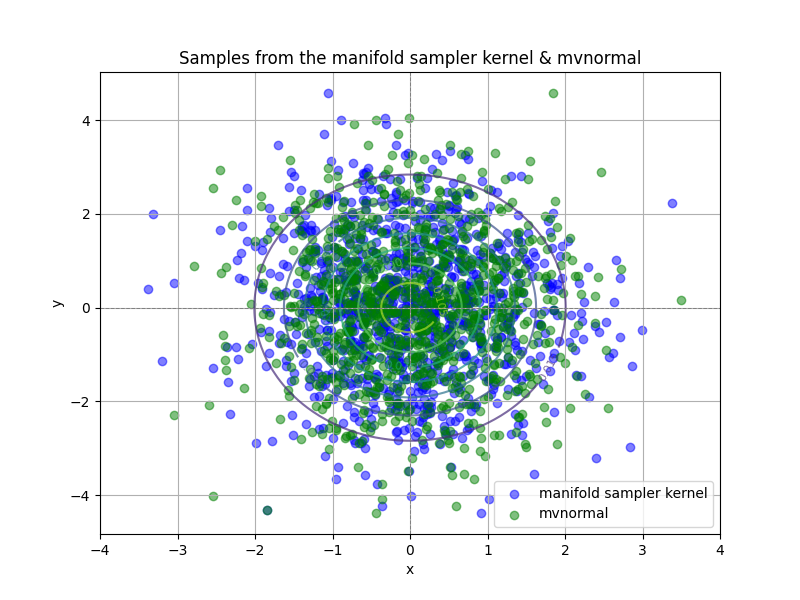
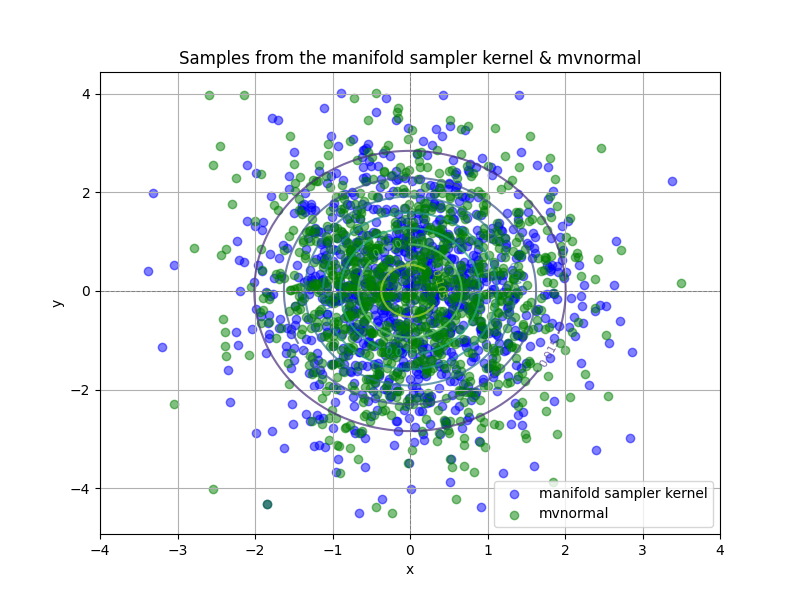
update final

diff --git a/Project/code/ratest.py b/Project/code/ratest.py
@@ -138,15 +138,15 @@ def adjust_step(x, v_x, s, q, f, G, G_x, L_x, nmax, eps, a, b):
         j = j + delta
         s = s * 2 ** (delta)
         l = logratio(x, v_x, q, G, G_x, L_x, nmax, eps, f, s)
-        delta = (1 if abs(l) < math.log(b) else 0) - (
-            1 if abs(l) > abs(math.log(a)) else 0
-        )
+        # delta = (1 if abs(l) < math.log(b) else 0) - (
+        #     1 if abs(l) > abs(math.log(a)) else 0
+        # )
         if delta == 1 and abs(l) >= abs(math.log(b)):
             return s / 2
         elif delta == -1 and abs(l) <= abs(math.log(a)):
             return s
-        else:
-            return s
+        # else:
+        #     return s
 
 
 # ===================================================================================
@@ -289,106 +289,106 @@ def contour_sampler(manifold_ker, sigma, s, k, n_iter):
 
 # test case
 
-# # check scatter plot
-# samples = contour_sampler(manifold_auto, sigma, s, k, n_iter)
-# # Convert samples to a NumPy array for further analysis
-# samples = np.array(samples)
-# ref_samples = np.random.multivariate_normal(mean=np.zeros(2), cov=np.diag(sigma), size=n_iter)
+# check scatter plot
+samples = contour_sampler(manifold_auto, sigma, s, k, n_iter)
+# Convert samples to a NumPy array for further analysis
+samples = np.array(samples)
+ref_samples = np.random.multivariate_normal(mean=np.zeros(2), cov=np.diag(sigma), size=n_iter)
 
 
-# # Create grid for contour plot of the multivariate normal density
-# x_grid = np.linspace(-4, 4, 100)
-# y_grid = np.linspace(-4, 4, 100)
-# X, Y = np.meshgrid(x_grid, y_grid)
-# pos = np.dstack((X, Y))
-# Z = multivariate_normal([0, 0], np.diag(sigma)).pdf(pos)
+# Create grid for contour plot of the multivariate normal density
+x_grid = np.linspace(-4, 4, 100)
+y_grid = np.linspace(-4, 4, 100)
+X, Y = np.meshgrid(x_grid, y_grid)
+pos = np.dstack((X, Y))
+Z = multivariate_normal([0, 0], np.diag(sigma)).pdf(pos)
 
-# # Plotting the samples
-# plt.figure(figsize=(8, 6))
-# plt.scatter(samples[:, 0], samples[:, 1], c="blue", alpha=0.5, label="Samples")
-# plt.scatter(ref_samples[:, 0], samples[:, 1], c="green", alpha=0.5, label="Samples")
-# # Plot contours of the reference multivariate normal
-# contour = plt.contour(X, Y, Z, levels=10, cmap="viridis", alpha=0.7)
-# # Add labels, legend, and grid
-# plt.clabel(contour, inline=True, fontsize=8)
-# plt.title("Samples from the manifold sampler kernel & mvnormal")
-# plt.xlabel("x")
-# plt.ylabel("y")
-# plt.grid()
-# plt.axhline(0, color="gray", linestyle="--", linewidth=0.7)
-# plt.axvline(0, color="gray", linestyle="--", linewidth=0.7)
-# plt.legend(["manifold sampler kernel", "mvnormal"], loc="lower right")
-# plt.show()
-
-# print(stats.kstest(samples[:,0], ref_samples[:,0]))
-# print(stats.kstest(samples[:,1], ref_samples[:,1]))
-
-
-# check the joint p-values are uniform([0,1]^2)
-x_pvals = []
-y_pvals = []
-for i in range(3):
-    contour_samples = contour_sampler(manifold_auto, sigma, s, k, n_iter)
-    contour_samples = np.array(contour_samples)
-    real_samples = np.random.multivariate_normal(
-        mean=np.zeros(2), cov=np.diag(sigma), size=n_iter
-    )
-    p_val_x = stats.kstest(contour_samples[:, 0], real_samples[:, 0])[1]
-    p_val_y = stats.kstest(contour_samples[:, 1], real_samples[:, 1])[1]
-    print("x_pval: ", p_val_x, "y_pval: ", p_val_y)
-    x_pvals.append(p_val_x)
-    y_pvals.append(p_val_y)
-
-    # Compute 2D histogram for samples
-bins = 20  # Number of bins for the histogram
-hist, x_edges, y_edges = np.histogram2d(
-    x_pvals, y_pvals, bins=bins, range=[[0, 1], [0, 1]], density=True
-)
-
-# Create grid for plotting
-x_centers = (x_edges[:-1] + x_edges[1:]) / 2
-y_centers = (y_edges[:-1] + y_edges[1:]) / 2
-X, Y = np.meshgrid(x_centers, y_centers)
-
-# Uniform density value for comparison
-# uniform_density = np.ones_like(hist) / (bins * bins)  # Adjusted for equal-area bins
-uniform_density = np.ones_like(hist)
-uniform_density_scaled = uniform_density * hist.mean()
-
-# 3D Plot: Observed Histogram vs Uniform Density
-fig = plt.figure(figsize=(10, 8))
-ax = fig.add_subplot(111, projection="3d")
-
-# Plot observed density as bars
-for i in range(hist.shape[0]):
-    for j in range(hist.shape[1]):
-        ax.bar3d(
-            x_centers[i],  # x-coordinate
-            y_centers[j],  # y-coordinate
-            0,  # z-base
-            x_edges[1] - x_edges[0],  # bar width (x)
-            y_edges[1] - y_edges[0],  # bar width (y)
-            hist[i, j],  # bar height
-            color="blue",
-            alpha=0.7,
-        )
-
-# Plot uniform density as a surface
-uniform_surface = ax.plot_surface(X, Y, uniform_density_scaled, color="red", alpha=0.5)
-
-# Customize the plot
-ax.set_title("3D Comparison: Observed vs Uniform Density")
-ax.set_xlabel("X-axis (x_pvals)")
-ax.set_ylabel("Y-axis (y_pvals)")
-ax.set_zlabel("Density/Frequency")
-
-# Add a legend using ProxyArtists
-from matplotlib.lines import Line2D
-from matplotlib.patches import Patch
-
-# Define proxy artists
-blue_bar = Patch(color="blue", alpha=0.7, label="Observed Histogram")
-red_surface = Patch(color="red", alpha=0.5, label="Uniform Density")
-ax.legend(handles=[blue_bar, red_surface], loc="upper right")
-
+# Plotting the samples
+plt.figure(figsize=(8, 6))
+plt.scatter(samples[:, 0], samples[:, 1], c="blue", alpha=0.5, label="Samples")
+plt.scatter(ref_samples[:, 0], samples[:, 1], c="green", alpha=0.5, label="Samples")
+# Plot contours of the reference multivariate normal
+contour = plt.contour(X, Y, Z, levels=10, cmap="viridis", alpha=0.7)
+# Add labels, legend, and grid
+plt.clabel(contour, inline=True, fontsize=8)
+plt.title("Samples from the manifold sampler kernel & mvnormal")
+plt.xlabel("x")
+plt.ylabel("y")
+plt.grid()
+plt.axhline(0, color="gray", linestyle="--", linewidth=0.7)
+plt.axvline(0, color="gray", linestyle="--", linewidth=0.7)
+plt.legend(["manifold sampler kernel", "mvnormal"], loc="lower right")
 plt.show()
+
+print(stats.kstest(samples[:,0], ref_samples[:,0]))
+print(stats.kstest(samples[:,1], ref_samples[:,1]))
+
+
+# # check the joint p-values are uniform([0,1]^2)
+# x_pvals = []
+# y_pvals = []
+# for i in range(3):
+#     contour_samples = contour_sampler(manifold_auto, sigma, s, k, n_iter)
+#     contour_samples = np.array(contour_samples)
+#     real_samples = np.random.multivariate_normal(
+#         mean=np.zeros(2), cov=np.diag(sigma), size=n_iter
+#     )
+#     p_val_x = stats.kstest(contour_samples[:, 0], real_samples[:, 0])[1]
+#     p_val_y = stats.kstest(contour_samples[:, 1], real_samples[:, 1])[1]
+#     print("x_pval: ", p_val_x, "y_pval: ", p_val_y)
+#     x_pvals.append(p_val_x)
+#     y_pvals.append(p_val_y)
+
+#     # Compute 2D histogram for samples
+# bins = 20  # Number of bins for the histogram
+# hist, x_edges, y_edges = np.histogram2d(
+#     x_pvals, y_pvals, bins=bins, range=[[0, 1], [0, 1]], density=True
+# )
+
+# # Create grid for plotting
+# x_centers = (x_edges[:-1] + x_edges[1:]) / 2
+# y_centers = (y_edges[:-1] + y_edges[1:]) / 2
+# X, Y = np.meshgrid(x_centers, y_centers)
+
+# # Uniform density value for comparison
+# # uniform_density = np.ones_like(hist) / (bins * bins)  # Adjusted for equal-area bins
+# uniform_density = np.ones_like(hist)
+# uniform_density_scaled = uniform_density * hist.mean()
+
+# # 3D Plot: Observed Histogram vs Uniform Density
+# fig = plt.figure(figsize=(10, 8))
+# ax = fig.add_subplot(111, projection="3d")
+
+# # Plot observed density as bars
+# for i in range(hist.shape[0]):
+#     for j in range(hist.shape[1]):
+#         ax.bar3d(
+#             x_centers[i],  # x-coordinate
+#             y_centers[j],  # y-coordinate
+#             0,  # z-base
+#             x_edges[1] - x_edges[0],  # bar width (x)
+#             y_edges[1] - y_edges[0],  # bar width (y)
+#             hist[i, j],  # bar height
+#             color="blue",
+#             alpha=0.7,
+#         )
+
+# # Plot uniform density as a surface
+# uniform_surface = ax.plot_surface(X, Y, uniform_density_scaled, color="red", alpha=0.5)
+
+# # Customize the plot
+# ax.set_title("3D Comparison: Observed vs Uniform Density")
+# ax.set_xlabel("X-axis (x_pvals)")
+# ax.set_ylabel("Y-axis (y_pvals)")
+# ax.set_zlabel("Density/Frequency")
+
+# # Add a legend using ProxyArtists
+# from matplotlib.lines import Line2D
+# from matplotlib.patches import Patch
+
+# # Define proxy artists
+# blue_bar = Patch(color="blue", alpha=0.7, label="Observed Histogram")
+# red_surface = Patch(color="red", alpha=0.5, label="Uniform Density")
+# ax.legend(handles=[blue_bar, red_surface], loc="upper right")
+
+# plt.show()

diff --git a/Project/project report.tex b/Project/project report.tex
@@ -4,6 +4,7 @@
 \input{macros/basic-math-macros} 
 \graphicspath{{./figures/}}
 
+
 \begin{document}
 
 \problemset{Junsong Tang}{junsong.tang@stat.ubc.ca \& \href{https://github.com/junsongt/STAT447}{Project repo}}{Project Report}
@@ -21,28 +22,28 @@ The manifold samplers from the previous literature(\cite{rattle}, \cite{manifold
 \section{Manifold sampler with autostep}
 In this section, we will introduce the modified sampling method mentioned above in more details. First we start by introducing the notations and problem setting for the context:
 \subsection{Background}
-Consider the $d$-dimensional submanifold embeded in $\R^n$ with $d < n$ defined by a set of $m$ constraints: $\Mscr = \{x \in \R^n : F_i(x) = 0, i = 1,\ldots, m\}$, and write $F(x) = [F_1(x),\ldots, F_m(x)]^\top$. Let $\pi$ be the target distribution defined on $\Mscr$ with respect to $d$-dimensional Hausdorff measure so that $\pi(dx) = f(x) \Hcal^{d}(dx)$ for some density $f$.
+Consider the $d$-dimensional submanifold embeded in $\R^n$ with $d < n$ defined by a set of $m$ constraints: $\Mscr = \{x \in \R^n : F_i(x) = 0, i = 1,\ldots, m\}$, and write $F(x) = [F_1(x),\ldots, F_m(x)]^\top$. Let $\pi$ be the target distribution (could possibly be un-normalized) defined on $\Mscr$ with respect to $d$-dimensional Hausdorff measure so that $\pi(dx) = f(x) \Hcal^{d}(dx)$ for some density $f$.
 Denote $Q_x = [\nabla F_1(x), \ldots, \nabla F_m(x)]$, whose column vector is the gradient $\nabla F_j(x)$, which is also equivalent to $DF(x)^\top$ by convention; Note that $Q_x$ is a $n \times m$ matrix. Denote $T_x = \text{Null}(Q_x^T)$ as the tangent space at $x$ and $N_x = span(Q_x)$ as the normal space at $x$. We will refer the readers to the literature \cite{manifoldparent} and \cite{manifoldchild} for more technical details in the algorithm.
 
 \subsection{Modified sampler with autostep}
 In this section, we will explain the sketch of the manifold sampler with autostep
 
-Below is a sketch of the whole algorithm.
+Given the global parameters such as: the set of constraints $F$, gradient function $Q$ and target density $f$. Below is a sketch of the whole algorithm.
 \begin{algorithm}[H]
 \caption{manifold sampler with autostep}
 \label{algo:manifold_autostep}
-\begin{algorithmic}[1]
-    \Require $x_0 \in \Mscr$, constraints: $F$, target density: $f$, initial(last gen.) step size parameter: $\sigma_0$. 
-
-    \State $\sigma \gets \sigma_0$; $(a, b) \sim \Unif(\Delta)$
-    \State Select the step size $\sigma \gets \textbf{adjust\_step}(x, \sigma, F, Q_x, f, a, b)$
-    \State Sample tangent vector: $v_x \sim N(0, \I)$ where $v_x \in T_x$ and project to $\Mscr$: $y \gets x + \sigma v_x + Q_x\cdot c$
-    \State Find reverse tangent vector: $v_y \gets \text{Proj}_{T_y}(x-y)$
-    \If{$U \sim \Unif(0,1) > \exp\Big(\log f(y) - \log f(x) - \frac{\norm{v_y}^2-\norm{v_x}^2}{2} \Big)$}  \Comment{M-H step}
+\begin{algorithmic}[1]  
+    \Require $x \in \Mscr$, initial(last gen.) step size parameter: $\sigma$
+    \Parameter{global $F, Q, f$}{constraints, gradient, target density}
+    \State Sample $(a, b) \sim \Unif(\Delta)$ and tangent vector $v_x \sim N(0, \I)$ where $v_x \in T_x$
+    \State Select the step size $\sigma \gets \textbf{adjust\_step}(x, v_x, \sigma, a, b)$ \Comment{autostep}
+    \State Project to $\Mscr$: $y \gets x + \sigma v_x + Q_x\cdot c$ \Comment{proposed sample}
+    \State Find reverse tangent vector: $v_y \gets \frac{1}{s} \text{Proj}_{T_y}(x-y)$
+    \If{$U \sim \Unif(0,1) > \exp\Big(\log f(y) - \log f(x) - (\norm{v_y}^2-\norm{v_x}^2) / 2 \Big)$}  \Comment{M-H step}
         \State Return $(x, \sigma)$
     \EndIf
-    \If{$\textbf{reversible}(x, y, v_y, Q_y) ==$ false} \Comment{reversibility check}
-        \State Return $(x, \sigma)$
+    \If{not $\textbf{reversible}(x, y, v_y, Q_y)$} \Comment{reversibility check}
+        \State \Return $(x, \sigma)$
     \EndIf
     \State \Return $(y, \sigma)$
     \end{algorithmic}
@@ -50,30 +51,25 @@ Below is a sketch of the whole algorithm.
 
 
 \begin{algorithm}[H]
-\caption{Step size selector \textbf{adjust\_step}$(x, \theta, F, Q_x, f, a, b)$}
+\caption{Step size selector \textbf{adjust\_step}$(x, v, \theta, a, b)$}
 \label{algo:stepsize_selector}
 \begin{algorithmic}[1]
-\Require State $x \in \mathbb{R}^3$, auxiliary variable $z \in \mathbb{R}^3$, acceptance bounds $(a, b)$, initial step size $\sigma_0$
-
-\State $\theta \gets \theta_0$; $v \sim N(0, \I)$; $(x', \text{flag}) \gets \textbf{solve}(x+\theta v, F, Q_x)$
-\While{flag $==$ false}
-    \State $\theta \gets \theta / 2$ 
-    \State $(x', \text{flag}) \gets \textbf{solve}(x+\theta v, F, Q_x)$
-\EndWhile
-\State Compute $\ell \gets \ell(x, v, \theta) = \log f(x') - \log f(x) - \frac{\norm{v_x'}^2-\norm{v_x}^2}{2}$
-\State Determine $v = 1$ if $|\ell| < |\log b|$, $v = -1$ if $|\ell| > |\log a|$, else $v = 0$
-\State $j = 0$
-\If{$v = 0$}
-    \State \Return $j$
+\Require State $x \in \Mscr$, tangent vector $v \in T_x$, initial step size $\theta_0$, soft acceptance bounds $(a, b)$ 
+\State $\theta \gets \theta_0$; compute $\ell \gets \ell(x, v, \theta) = \log f(x') - \log f(x) - (\norm{v_x'}^2-\norm{v_x}^2) / 2$
+\State $\delta \gets \1\{\abs{\ell} < \abs{\log b}\} - \1\{\abs{\ell} > \abs{\log a}\}$
+% $\delta \gets 1$ if $|\ell| < |\log b|$, $\delta \gets -1$ if $|\ell| > |\log a|$, else $\delta \gets 0$
+\State $j \gets 0$
+\If{$\delta = 0$}
+    \State \Return $\theta$
 \EndIf
-\While{\textbf{true}}
-    \State $j \gets j + v$
+\While{true}
+    \State $j \gets j + \delta$
     \State $\theta \gets \theta_0 \cdot 2^j$
     \State $\ell \gets \ell(x, v, \theta)$
-    \If{$v = 1$ \textbf{and} $|l| \geq |\log b|$}
-        \State \Return $j - 1$
-    \ElsIf{$v = -1$ \textbf{and} $|l| \leq |\log a|$}
-        \State \Return $j$
+    \If{$\delta = 1$ \textbf{and} $|l| \geq |\log b|$}
+        \State \Return $\theta / 2$
+    \ElsIf{$\delta = -1$ \textbf{and} $|l| \leq |\log a|$}
+        \State \Return $\theta$
     \EndIf
 \EndWhile
 \end{algorithmic}

diff --git a/Project/code/manifold_auto.py b/Project/code/manifold_auto.py
@@ -84,15 +84,15 @@ def adjust_step(x, v_x, s, q, f, G, G_x, L_x, nmax, eps, a, b):
         j = j + delta
         s = s * 2 ** (delta)
         l = logratio(x, v_x, q, G, G_x, L_x, nmax, eps, f, s)
-        delta = (1 if abs(l) < math.log(b) else 0) - (
-            1 if abs(l) > abs(math.log(a)) else 0
-        )
+        # delta = (1 if abs(l) < math.log(b) else 0) - (
+        #     1 if abs(l) > abs(math.log(a)) else 0
+        # )
         if delta == 1 and abs(l) >= abs(math.log(b)):
             return s / 2
         elif delta == -1 and abs(l) <= abs(math.log(a)):
             return s
-        else:
-            return s
+        # else:
+        #     return s
 
 
 # ===================================================================================
@@ -195,7 +195,7 @@ A = 2
 B = 1
 C = 1.5
 
-n_iter = 5000  # number of samples
+n_iter = 1000  # number of samples
 # constraints are {h_i(x) : h_i(x) >= 0}
 q = lambda x: np.array([x[0] ** 2 / A**2 + x[1] ** 2 / B**2 + x[2] ** 2 / C**2 - 1])
 # gradient matrix as a function of x

diff --git a/Project/macros/basic-math-macros.tex b/Project/macros/basic-math-macros.tex
@@ -50,6 +50,11 @@
 % \newtheorem{corollary}{Corollary}[theorem]
 % \newtheorem{lemma}{Lemma}[theorem]
 % \newtheorem{proposition}[theorem]{Proposition}
+\newcommand{\var}{\texttt}
+\newcommand{\assign}{\gets}
+\newcommand{\True}{\textsc{True}}
+\newcommand{\False}{\textsc{False}}
+\newcommand{\Parameter}[2]{\Statex $\triangleright$ \var{#1}: #2}
 
 \newtheorem{definition}{Definition}[section]
 \newtheorem{theorem}{Theorem}[section]
